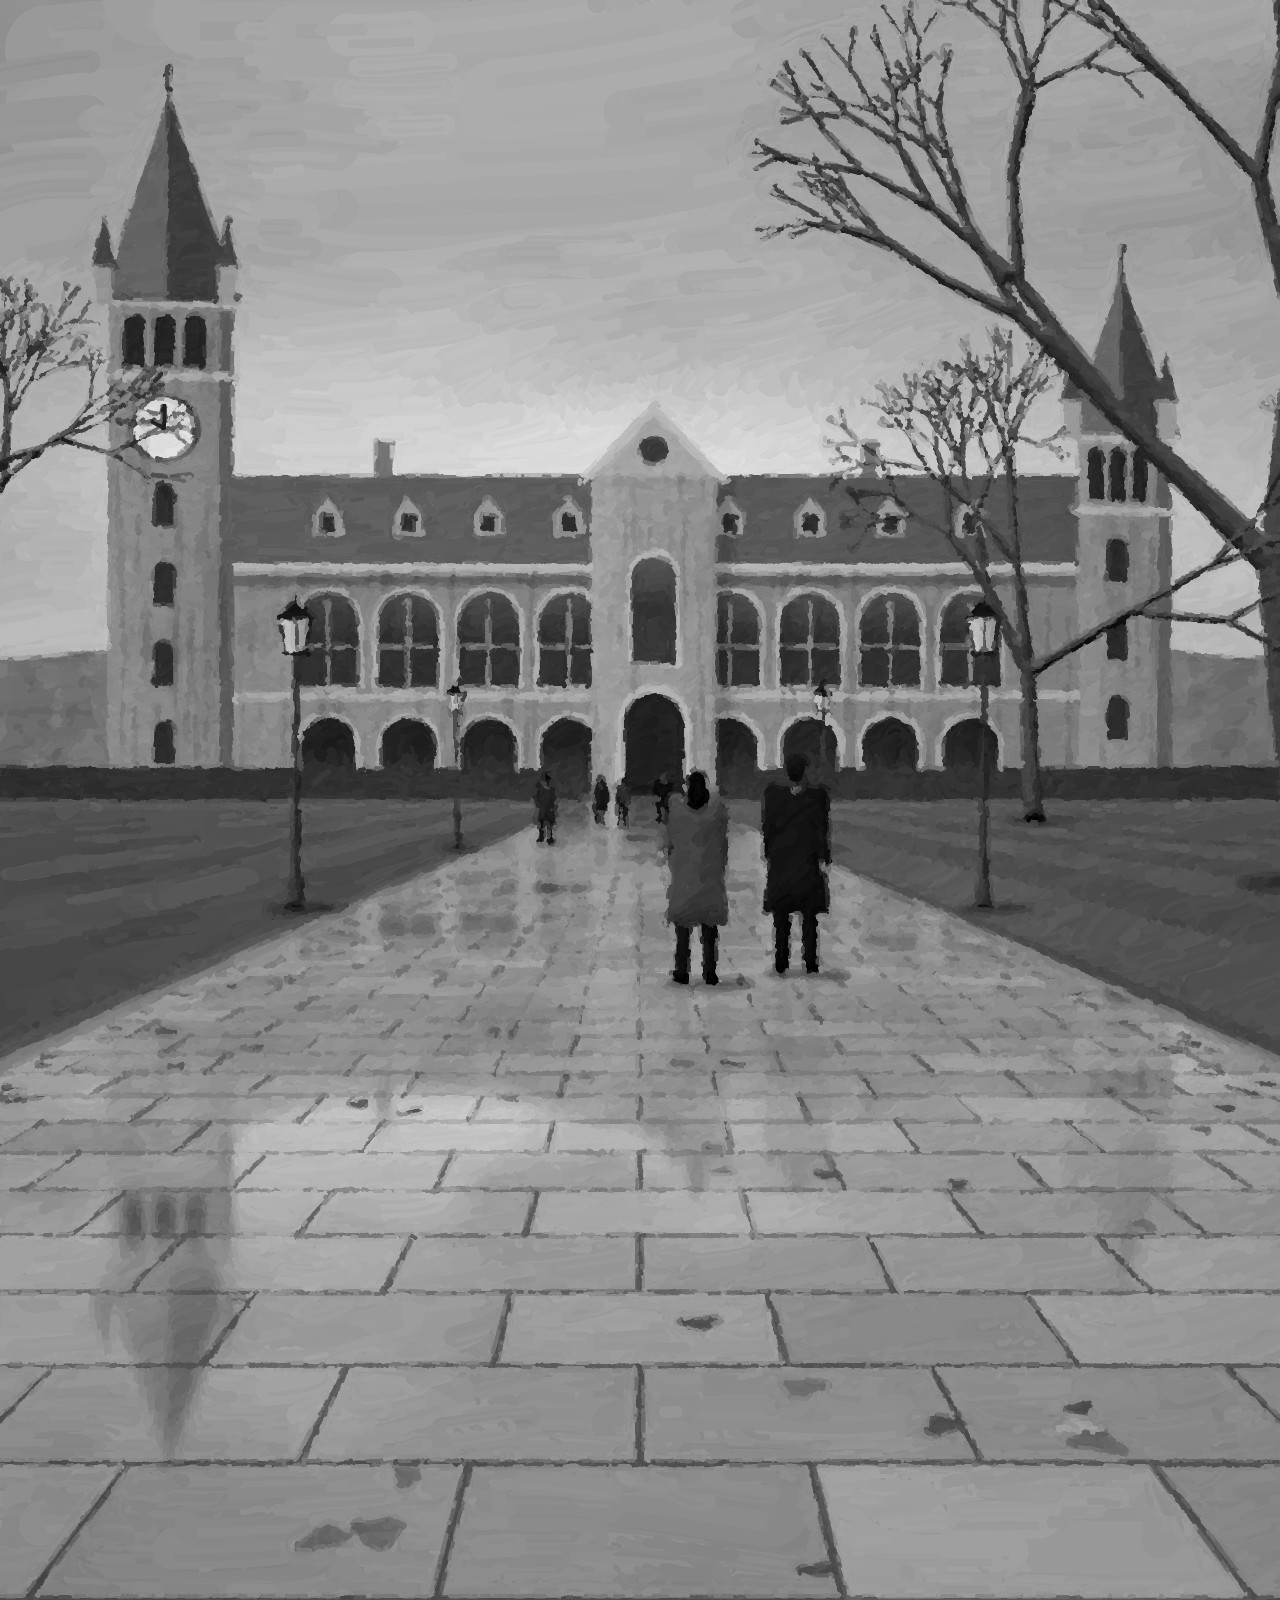
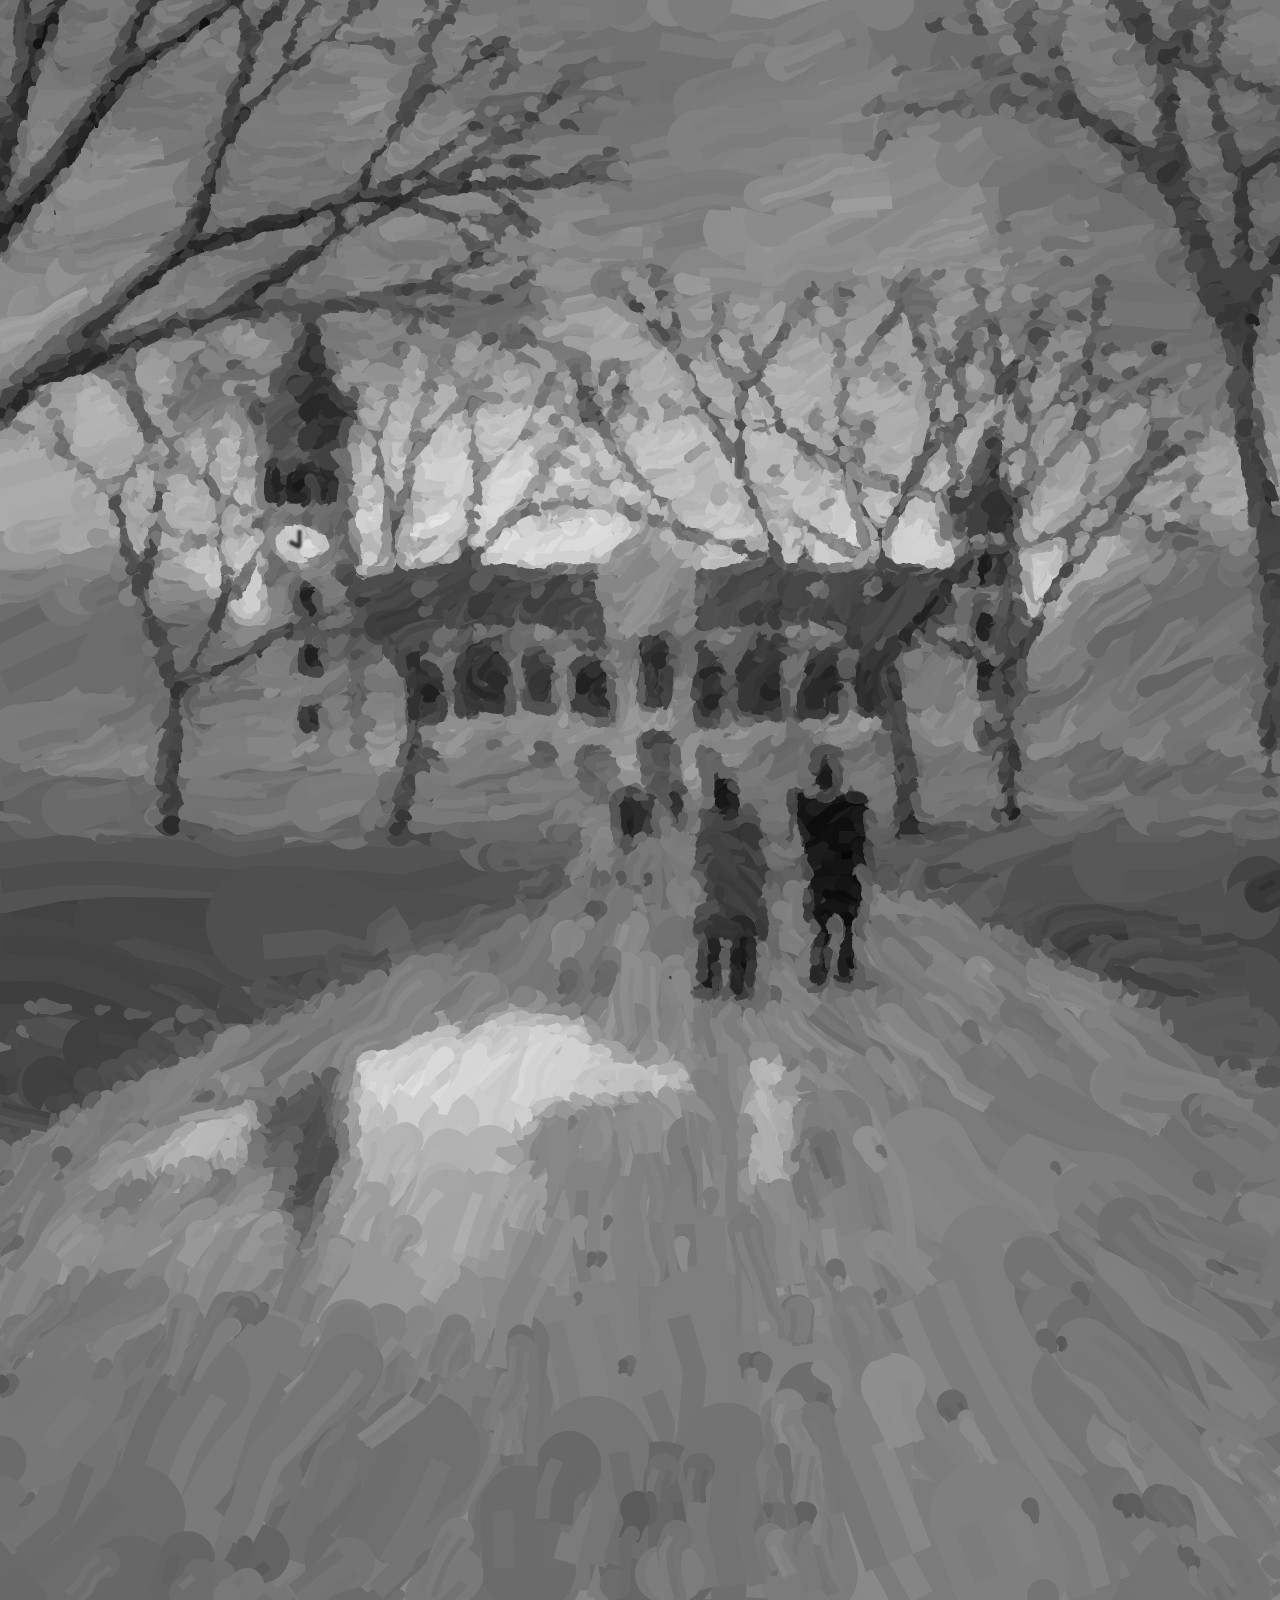
Add Up to five feet (2026-11-19-16); repaint 2026-11-19-15 the looser way; patterns in the letters
Claude-Session: https://claude.ai/code/session_01BbbX7RBJyvjpGBf2t3PjAb

diff --git a/index.html b/index.html
@@ -256,6 +256,31 @@ function tune() {
   dmax = top(list);
   const eq = list.find(a => a[0] === 61)[1];
   pals = [palette(list, sh), palette(list.filter(a => a[0] === 32 || a[0] === 45 || a[0] === 126 || a[0] === 61 || a[1] > eq * 1.03), sh)];
+  try { weave(pals[0]); } catch (e) {}
+}
+// Patterns (asked for on Nov 19: "use some sort of specific patterns and repetition on text"). In about half of the flat areas the
+// letters are not drawn by lot but repeat: pairs and triples of letters that weigh nearly the same (/\ <> () [] -= .: MW ...), laid
+// in rows that step sideways from line to line, so they make zigzags, diamonds, bricks and columns. Which areas, which letters and
+// which step change from picture to picture (patSeed). An edge still takes the letter that follows it, and a pattern letter too far
+// from the tone wanted gives way to one drawn by lot, so the picture seen from afar stays the same.
+const FAMS = ["/\\", "<>", "()", "[]", "{}", "-=", "~-", "=~", ".:", ",'", ";:", ".,", "'`", "+*", "!|", "il", "lI", "1l", "tf", "jl", "db", "qp", "MW", "AV", "OQ", "0O", "8B", "HN", "EF", "ZS", "XK", "TY", "CG", "UJ", "DO", "RK", "PF", "69", "25", "38", "#%", "@&", "$S", "%&", "/|\\", "<=>", "(|)", "-=~", ".:;", "+*#", "^\"", "?!", "7/", "L\\", "TI", "Yl", "hk", "gq", "4+", "kK", "bp", "dq", "JL", "NZ", "VY", "GQ", "BR", "E3", "S5", "B8", "D0", "#@", "&8", "$8", "_.", "-~", "=+", "*^", "<(", ")>", "{[", "]}", "|l", "I1", "i!", ";!", "ft", "Ll", "T7", "Y4", "FP", "KR", "HM", "NW", "UO", "QD", "G6", "96", "@#", "%#", "&$"];
+const BLK = 44;                                                           // patches of pattern are a few dozen letters across
+let patSeed = 0;
+function weave(pal) {
+  const fams = [];
+  for (const s of FAMS) {
+    const ks = Array.from(s).map(c => pal.code.indexOf(c.charCodeAt(0)));
+    if (ks.some(k => k < 0)) continue;
+    const ws = ks.map(k => pal.dens[k]), mean = ws.reduce((a, b) => a + b, 0) / ws.length;
+    if (Math.max.apply(null, ws) - Math.min.apply(null, ws) > 0.05 * dmax || mean < 0.03 * dmax) continue;     // one pattern, one weight
+    fams.push({ ks, mean });
+  }
+  const by = new Int16Array(256 * 3).fill(-1), tol = 0.02 * dmax;
+  for (let q = 0; q < 256; q++) {
+    const v = q / 255 * dmax, near = fams.map((f, n) => [Math.abs(f.mean - v), n]).filter(a => a[0] <= tol).sort((a, b) => a[0] - b[0]).slice(0, 3);
+    near.forEach((a, n) => { by[q * 3 + n] = a[1]; });
+  }
+  pal.fams = fams; pal.famBy = by;
 }
 // Picks a letter for every cell. Tone decides which letters are candidates (the error is passed on to the neighbours, as before).
 // Where an edge or a thin line of the picture crosses the cell, the letter is chosen to follow it: the one whose strokes run along it,
@@ -269,9 +294,13 @@ function dither(F, P, G, st) {
   const Z = new Float32Array(C * R);                                    // the tones with the empty cells as black, for reading neighbours
   for (let q = 0; q < Z.length; q++) Z[q] = F[q] < 0 ? 0 : F[q];
   const at = (i, j) => Z[(j < 0 ? 0 : j >= R ? R - 1 : j) * C + (i < 0 ? 0 : i >= C ? C - 1 : i)];
-  if (st) { st.all = 0; st.n = 0; st.a = 0; st.b = 0; st.h = new Array(21).fill(0); st.c = [{}, {}, {}, {}, {}]; st.d = [{}, {}, {}, {}, {}]; }
+  if (st) { st.all = 0; st.n = 0; st.a = 0; st.b = 0; st.h = new Array(21).fill(0); st.c = [{}, {}, {}, {}, {}]; st.d = [{}, {}, {}, {}, {}]; st.pt = 0; st.pp = 0; st.pf = {}; }
+  const nbx = Math.ceil(C / BLK) + 2, nby = Math.ceil(R / BLK) + 2, la = new Float32Array(nbx * nby), lb = new Float32Array(nbx * nby), wide = 0.14 * dmax;
+  for (let y = 0; y < nby; y++) for (let x = 0; x < nbx; x++) { la[y * nbx + x] = hs(x + 11 + patSeed, y + 5 + 3 * patSeed); lb[y * nbx + x] = hs(x + 301 + 7 * patSeed, y + 97 + patSeed); }
+  const ya = new Float32Array(nbx), yb = new Float32Array(nbx), inv = 1 / BLK;     // the two slow fields along the current row of letters
   for (let j = 0; j < R; j++) {
     const dir = j & 1 ? -1 : 1;
+    { const y = j * inv, y0 = y | 0, w = y - y0, b = w * w * (3 - 2 * w), o = y0 * nbx; for (let x = 0; x < nbx; x++) { ya[x] = la[o + x] + (la[o + nbx + x] - la[o + x]) * b; yb[x] = lb[o + x] + (lb[o + nbx + x] - lb[o + x]) * b; } }
     for (let n = 0; n < C; n++) {
       const i = dir > 0 ? n : C - 1 - n, q = j * C + i, f = F[q];
       if (f < 0) { row[i] = 32; continue; }
@@ -312,6 +341,15 @@ function dither(F, P, G, st) {
             st.n++; st.a += pal.ox[k] * ex + pal.oy[k] * ey; st.b += pal.ox[ko] * ex + pal.oy[ko] * ey;
             st.c[cl][pal.code[k]] = (st.c[cl][pal.code[k]] || 0) + 1; st.d[cl][pal.code[ko]] = (st.d[cl][pal.code[ko]] || 0) + 1;
           }
+        }
+      }
+      if (k < 0 && pal.fams) {                                               // a flat cell: is it inside a patch of pattern?
+        const xf = i * inv, x0 = xf | 0, u = xf - x0, sa = u * u * (3 - 2 * u), lq = ((f * 255 + 0.5) | 0) * 3, by = pal.famBy;
+        if (by[lq] >= 0 && ya[x0] + (ya[x0 + 1] - ya[x0]) * sa > 0.5) {
+          const cnt = by[lq + 1] < 0 ? 1 : by[lq + 2] < 0 ? 2 : 3, r2 = yb[x0] + (yb[x0 + 1] - yb[x0]) * sa, fam = pal.fams[by[lq + Math.min(cnt - 1, Math.floor(r2 * 2.999 * cnt) % cnt)]], L = fam.ks.length;
+          const kk = fam.ks[(i + (Math.floor(r2 * 8) % L) * j) % L];
+          if (st) st.pt++;
+          if (Math.abs(pal.dens[kk] - v) <= wide) { k = kk; if (st) { st.pp++; const nm = fam.ks.map(c => String.fromCharCode(pal.code[c])).join(""); st.pf[nm] = (st.pf[nm] || 0) + 1; } }
         }
       }
       if (k < 0) k = pal.lo[lv] + Math.floor(hs(i + 57, j + 131) * (pal.hi[lv] - pal.lo[lv] + 1));
@@ -487,6 +525,7 @@ async function show(i, reveal) {
       F = Float32Array.from(f.res.F); P = f.res.P;
       for (let i = 0; i < F.length; i++) if (!(F[i] > 0.004)) F[i] = -1;
     }
+    patSeed = 0; for (let n = 0; n < p.id.length; n++) patSeed = (patSeed * 31 + p.id.charCodeAt(n)) % 9973;
     const typed = dither(F, P, G);
     rowsArr = typed.rows; win = null; art.textContent = "";
     farOK = M <= 2;
